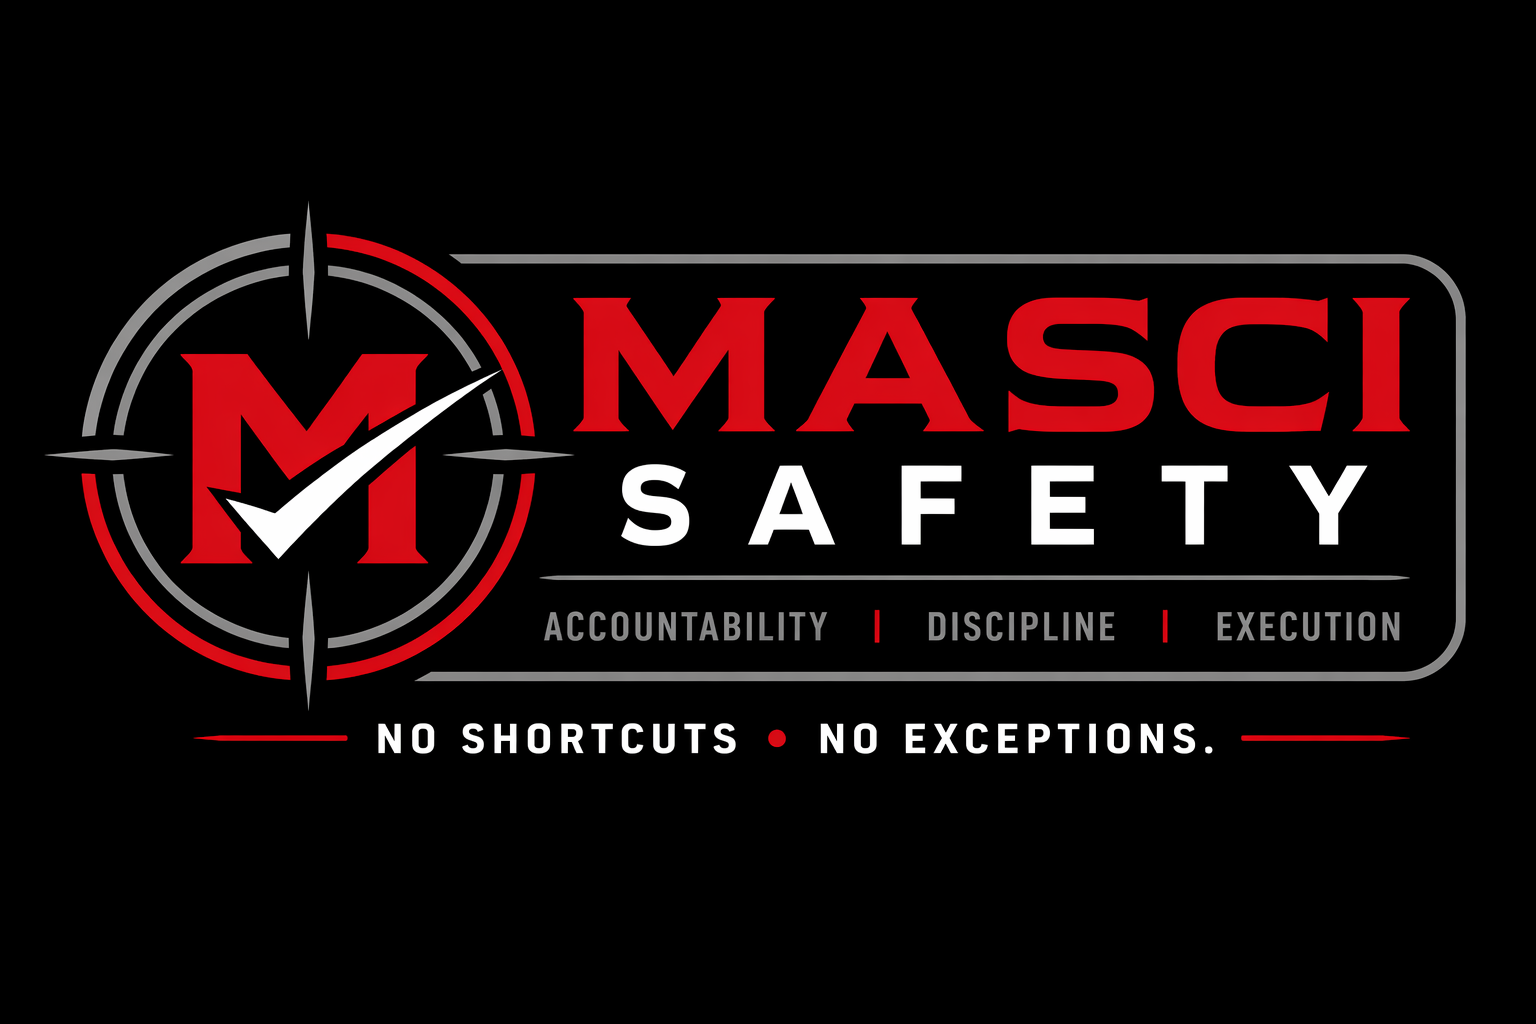
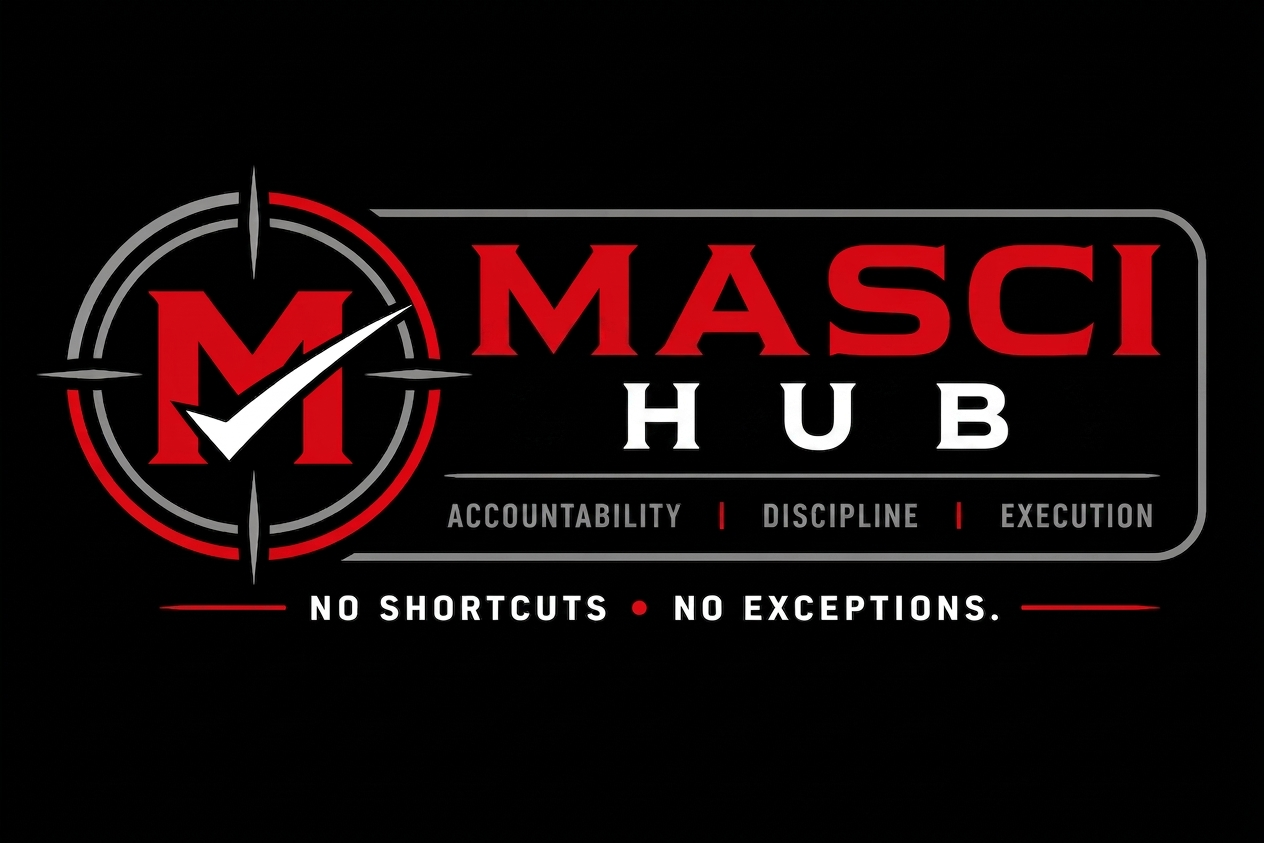
auto-commit for 26d6478b-d53b-4e80-90f1-bc938d480c5d

diff --git a/backend/scripts/generate_hub_logos.py b/backend/scripts/generate_hub_logos.py
@@ -1,0 +1,101 @@
+"""One-off logo generator — edits each MASCI lockup variant to say HUB instead of SAFETY.
+
+Usage:
+    cd /app/backend && python scripts/generate_hub_logos.py
+
+Produces:
+    /app/frontend/public/masci-full-lockup.png          (dark variant, rebranded)
+    /app/frontend/public/masci-full-lockup-onblack.png
+    /app/frontend/public/masci-full-lockup-onlight.png
+
+Originals are copied to /app/frontend/public/_old_safety_lockups/ first so we
+never lose the source art.
+"""
+import asyncio
+import base64
+import os
+import shutil
+import sys
+import uuid
+from pathlib import Path
+
+from dotenv import load_dotenv
+from emergentintegrations.llm.chat import LlmChat, UserMessage, ImageContent
+
+load_dotenv()
+
+PUBLIC_DIR = Path("/app/frontend/public")
+BACKUP_DIR = PUBLIC_DIR / "_old_safety_lockups"
+MODEL = "gemini-3.1-flash-image-preview"
+
+VARIANTS = [
+    "masci-full-lockup.png",
+    "masci-full-lockup-onblack.png",
+    "masci-full-lockup-onlight.png",
+]
+
+PROMPT = (
+    "Take this logo image and make ONE precise change: replace the word "
+    "\"SAFETY\" with the word \"HUB\" wherever it appears. Do NOT change "
+    "anything else. Keep the exact same: the circular compass icon with "
+    "the red M and white checkmark, the red \"MASCI\" wordmark above, the "
+    "font/weight/letter-spacing of the replaced word (HUB must be styled "
+    "identically to how SAFETY was styled — same font, same size, same "
+    "white color, same letter spacing), the horizontal gray divider lines, "
+    "the \"ACCOUNTABILITY | DISCIPLINE | EXECUTION\" subtext, the tagline "
+    "\"NO SHORTCUTS · NO EXCEPTIONS.\" at the bottom with the short red "
+    "horizontal lines flanking it, and the background color. The overall "
+    "composition, padding, and proportions must match the original exactly."
+)
+
+
+async def edit_variant(src_path: Path, dst_path: Path) -> None:
+    with open(src_path, "rb") as f:
+        b64 = base64.b64encode(f.read()).decode("utf-8")
+
+    api_key = os.getenv("EMERGENT_LLM_KEY")
+    if not api_key:
+        print("ERROR: EMERGENT_LLM_KEY missing", file=sys.stderr)
+        sys.exit(1)
+
+    chat = LlmChat(
+        api_key=api_key,
+        session_id=f"masci-logo-{uuid.uuid4()}",
+        system_message="You are an expert brand designer. Make surgical edits to logos.",
+    )
+    chat.with_model("gemini", MODEL).with_params(modalities=["image", "text"])
+
+    msg = UserMessage(text=PROMPT, file_contents=[ImageContent(b64)])
+    text, images = await chat.send_message_multimodal_response(msg)
+    print(f"[{src_path.name}] model text: {(text or '').strip()[:120]}")
+
+    if not images:
+        print(f"[{src_path.name}] ERROR: no images returned", file=sys.stderr)
+        return
+    img = images[0]
+    out_bytes = base64.b64decode(img["data"])
+    dst_path.write_bytes(out_bytes)
+    print(f"[{src_path.name}] wrote {dst_path} ({len(out_bytes)/1024:.1f} KB)")
+
+
+async def main():
+    BACKUP_DIR.mkdir(parents=True, exist_ok=True)
+    # Back up originals once
+    for name in VARIANTS:
+        src = PUBLIC_DIR / name
+        bak = BACKUP_DIR / name
+        if src.exists() and not bak.exists():
+            shutil.copy2(src, bak)
+            print(f"backed up {src.name} -> {bak}")
+
+    for name in VARIANTS:
+        src = BACKUP_DIR / name  # always edit from the original
+        dst = PUBLIC_DIR / name
+        if not src.exists():
+            print(f"WARN: missing source {src}")
+            continue
+        await edit_variant(src, dst)
+
+
+if __name__ == "__main__":
+    asyncio.run(main())

diff --git a/memory/PRD.md b/memory/PRD.md
@@ -55,8 +55,8 @@ Evolved into a multi-module **MASCI Safety Hub**: Site Inspections, Safety Meeti
 - WeasyPrint PDF includes a red "OUT OF SERVICE" banner header on FAILs.
 - **Auto-email subject is automatically prefixed `EQUIPMENT FAIL · `** so PMs see it instantly. Sent to assigned PM + always-CC pipeline (David / Chris / Ramon / Jaymn / safety@).
 
-## What's Implemented (2026-04-27 · MASCI Hub Rebrand)
-App rebranded from "MASCI Safety Hub" to **"MASCI Hub"** — reflects that it's a full operations platform, not just safety.
+## What's Implemented (2026-04-27 · MASCI Hub Rebrand + New Logo)
+App rebranded from "MASCI Safety Hub" to **"MASCI Hub"** — reflects that it's a full operations platform, not just safety. Logo art was also regenerated via Gemini Nano Banana (`gemini-3.1-flash-image-preview`) — 3 lockup variants (dark bg, onblack, onlight) all now say **"MASCI HUB"** instead of "MASCI SAFETY" while preserving the compass icon, red M with checkmark, tagline, core values subtext, and overall composition. Originals archived to `/app/frontend/public/_old_safety_lockups/`. One-off script at `/app/backend/scripts/generate_hub_logos.py` (idempotent — always edits from the archived originals). Verified via MD5 — file on disk and server-served bytes match.
 - **New homepage `/`** (`Hub.jsx`): 4 big section cards instead of 7 mixed tiles:
   - 🦺 **Safety** (red) → `/safety` — Site Inspections, Safety Meetings, Incident Reports, JHA Plans, Trench Box Data
   - 👷 **Field** (amber) → `/field` — Daily Reports, Equipment Pre-Op
@@ -65,9 +65,10 @@ App rebranded from "MASCI Safety Hub" to **"MASCI Hub"** — reflects that it's 
 - **New `SafetySection.jsx`** (`/safety`) — 5 compliance-form tiles with red accent + "← MASCI Hub" back link.
 - **New `FieldSection.jsx`** (`/field`) — 2 daily-ops tiles with amber accent + "← MASCI Hub" back link.
 - Taglines + footers updated ("MASCI · Operations Platform").
-- **Copy updates across codebase:** Login page, backup panels, cheat sheet, share-form dialog, Owner's Manual, PDF headers, email subject lines, i18n Spanish translations, backend fallback titles. The product is now "MASCI Hub" everywhere a user sees it.
+- **Copy updates across codebase:** Login page, backup panels, cheat sheet, share-form dialog, Owner's Manual, PDF headers, email subject lines, i18n Spanish translations, backend fallback titles. The product is now "MASCI Hub" everywhere.
 - **Owner's Manual (`/admin/guide`) updated** with a new "The 4 sections of MASCI Hub" section explaining who uses Safety / Field / Projects / Admin.
-- Logo PNG file still shows "MASCI SAFETY" graphically (not regenerated) — only alt text updated to "MASCI".
+
+## What's Implemented (2026-04-27 · Owner's Manual + One-Stop Backup Hero)
 
 ## What's Implemented (2026-04-27 · Owner's Manual + One-Stop Backup Hero)
 - **New `/admin/guide` page** — plain-English, print-friendly Owner's Manual. Answers "how do I run this?", "what's in the backup .zip?", "what do I do if data is missing after a deploy?", "what are the passwords?". Linked from a "📖 Guide" button in the admin header. Crews never see it. Print button in the header → print-optimized layout.
